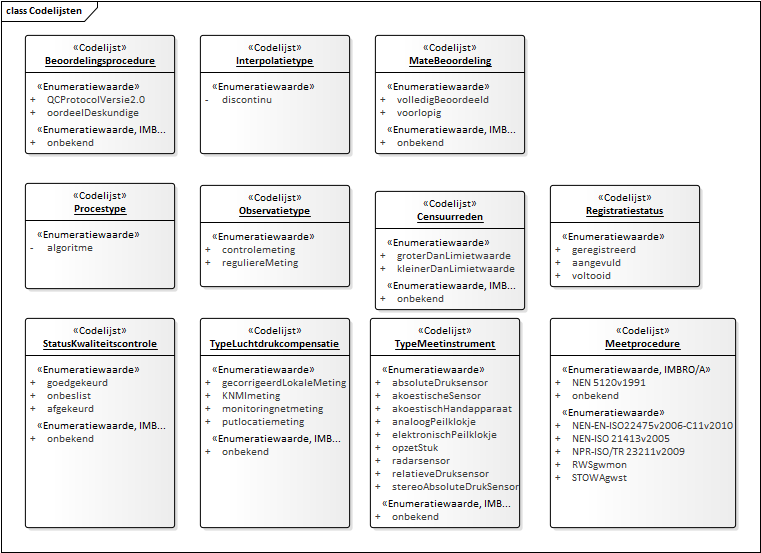
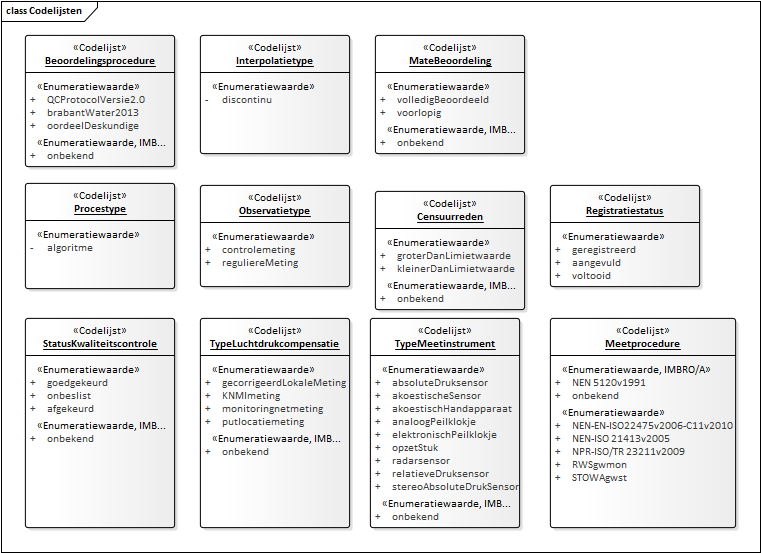
Conceptualmodel-GrondwaterstandonderzoekGLD-0.9-3-20191003-20191105-080749

Changed region(s): [[0.0302, 0.1844, 0.2418, 0.3074]]

diff --git a/data/GLD-cat.msword.html b/data/GLD-cat.msword.html
@@ -13,7 +13,7 @@
    <body>
       <p>Conceptual model/Grondwaterstandonderzoek (GLD)/20191003</p>
       <p>Imvertor: 1.55.2</p>
-      <p>Model release: Conceptualmodel-GrondwaterstandonderzoekGLD-0.9-3-20191003-20191104-150812</p>
+      <p>Model release: Conceptualmodel-GrondwaterstandonderzoekGLD-0.9-3-20191003-20191105-080749</p>
       <hr>
       <section>
          <h1>Artikel 1 Definitie van registratieobject, entiteiten en attributen</h1>
@@ -3261,6 +3261,16 @@
                         <p xmlns="http://www.w3.org/1999/xhtml" xmlns:html="http://www.w3.org/1999/xhtml" xmlns:imvert="http://www.imvertor.org/schema/system">De beoordeling is gedaan volgens het QC-protocol van de gezamenlijke provincies (versie
                            2.0).
                         </p>
+                        
+                     </td>
+                  </tr>
+                  <tr>
+                     <td>brabantWater2013</td>
+                     <td>✔</td>
+                     <td>✔</td>
+                     <td>
+                        
+                        <p xmlns="http://www.w3.org/1999/xhtml" xmlns:html="http://www.w3.org/1999/xhtml" xmlns:imvert="http://www.imvertor.org/schema/system">Validatie- en beoordelingsproces Brabant Water, 2013 </p>
                         
                      </td>
                   </tr>
